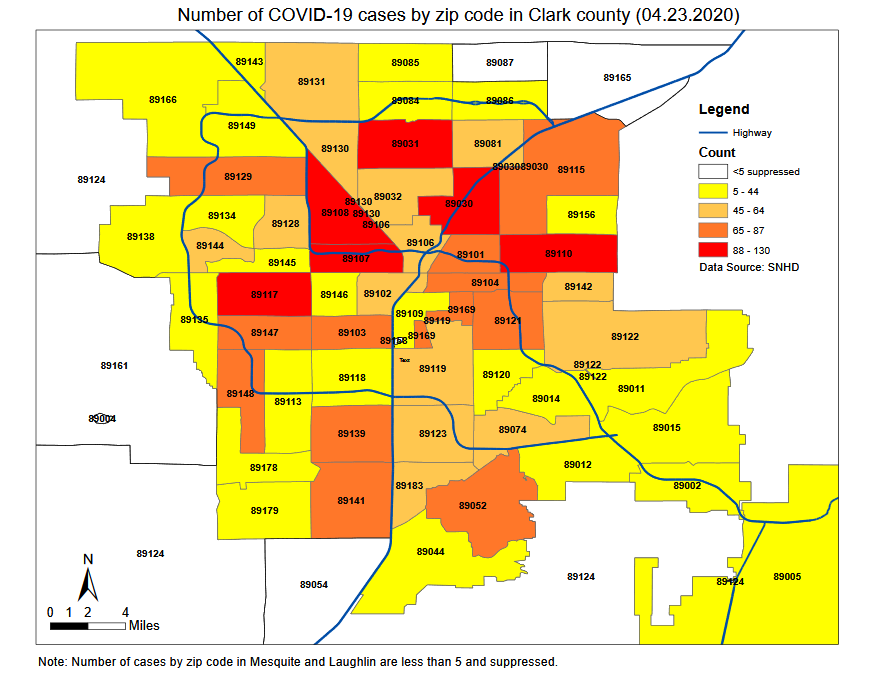
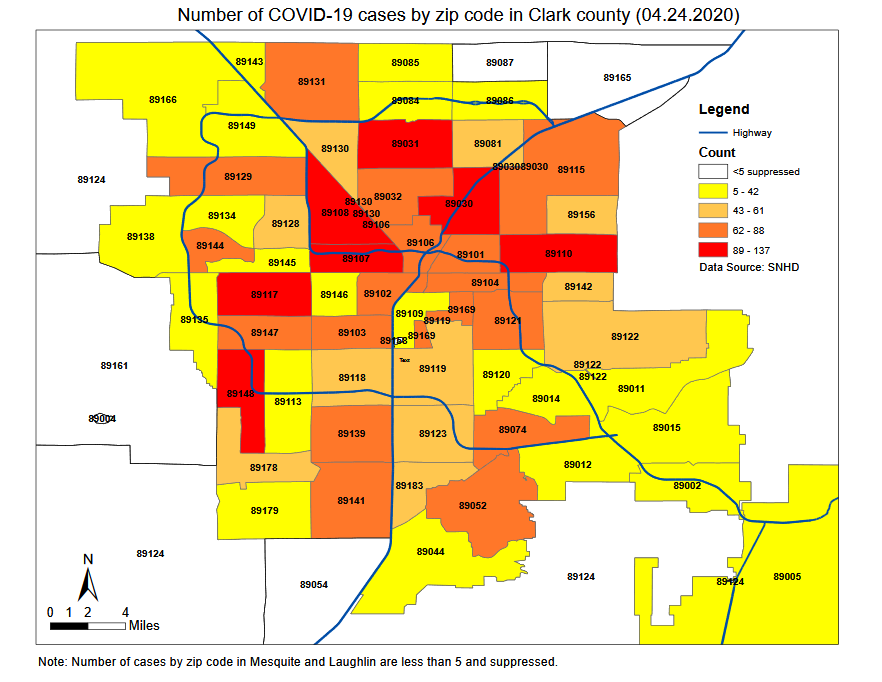
push

diff --git a/src/pages/nevada.js b/src/pages/nevada.js
@@ -65,6 +65,7 @@ class NevadaPage extends Component {
         '04/21/20',
         '04/22/20',
         '04/23/20',
+        '04/24/20',
       ],
       datasets: [
         {
@@ -121,6 +122,7 @@ class NevadaPage extends Component {
             4081,
             4208,
             4398,
+            4539,
           ],
           fill: false, // Don't fill area under the line
           backgroundColor: '#933A16', // Line color
@@ -180,6 +182,7 @@ class NevadaPage extends Component {
         '04/21/20',
         '04/22/20',
         '04/23/20',
+        '04/24/20',
       ],
       datasets: [
         {
@@ -236,6 +239,7 @@ class NevadaPage extends Component {
             172,
             187,
             195,
+            202,
           ],
           backgroundColor: 'maroon',
         },
@@ -275,6 +279,7 @@ class NevadaPage extends Component {
         '04/21/20',
         '04/22/20',
         '04/23/20',
+        '04/24/20',
       ],
       datasets: [
         {
@@ -312,6 +317,7 @@ class NevadaPage extends Component {
             826,
             860,
             881,
+            907,
           ],
         },
         {
@@ -349,6 +355,7 @@ class NevadaPage extends Component {
             21,
             34,
             21,
+            26,
           ],
         },
       ],
@@ -407,6 +414,7 @@ class NevadaPage extends Component {
         '04/21/20',
         '04/22/20',
         '04/23/20',
+        '04/24/20',
       ],
       datasets: [
         {
@@ -463,6 +471,7 @@ class NevadaPage extends Component {
             150,
             163,
             168,
+            174,
           ],
           backgroundColor: 'maroon',
         },
@@ -474,7 +483,7 @@ class NevadaPage extends Component {
       datasets: [
         {
           label: 'Age of Cases',
-          data: [12, 62, 187, 1374, 986, 819],
+          data: [14, 70, 204, 1422, 1012, 845],
           backgroundColor: [
             'rgb(54, 162, 235)', //blue
             'rgb(255, 99, 132)', //salmon
@@ -492,7 +501,7 @@ class NevadaPage extends Component {
       datasets: [
         {
           label: 'Sex',
-          data: [1713, 1620, 110],
+          data: [1784, 1677, 109],
           backgroundColor: [
             'rgb(54, 162, 235)',
             'rgb(255, 99, 132)',
@@ -546,7 +555,7 @@ class NevadaPage extends Component {
                   </div>
                   <div className="card-value pt-4">
                     <p className="is-dark-text-light">Total</p>
-                    <h1>36192</h1>
+                    <h1>37208</h1>
                   </div>
                 </div>
                 <div className="card grid-card is-card-dark">
@@ -557,7 +566,7 @@ class NevadaPage extends Component {
                   </div>
                   <div className="card-value pt-4">
                     <p className="is-dark-text-light">Total</p>
-                    <h1>31794</h1>
+                    <h1>32669</h1>
                   </div>
                 </div>
               </div>
@@ -585,7 +594,7 @@ class NevadaPage extends Component {
                   </div>
                   <div className="card-value pt-4">
                     <p className="is-dark-text-light">Total</p>
-                    <h1>4398</h1>
+                    <h1>4539</h1>
                   </div>
                 </div>
                 <div className="card grid-card is-card-dark">
@@ -596,7 +605,7 @@ class NevadaPage extends Component {
                   </div>
                   <div className="card-value pt-4">
                     <p className="is-dark-text-light">Total</p>
-                    <h1>195</h1>
+                    <h1>202</h1>
                   </div>
                 </div>
               </div>
@@ -625,7 +634,7 @@ class NevadaPage extends Component {
                     </div>
                     <div className="card-value pt-4">
                       <p className="is-dark-text-light">Total</p>
-                      <h1>3443</h1>
+                      <h1>3570</h1>
                     </div>
                   </div>
                   <div className="card grid-card is-card-dark">
@@ -636,7 +645,7 @@ class NevadaPage extends Component {
                     </div>
                     <div className="card-value pt-4">
                       <p className="is-dark-text-light">Total</p>
-                      <h1>881</h1>
+                      <h1>907</h1>
                     </div>
                   </div>
                 </div>
@@ -663,7 +672,7 @@ class NevadaPage extends Component {
                     </div>
                     <div className="card-value pt-4">
                       <p className="is-dark-text-light">Total</p>
-                      <h1>168</h1>
+                      <h1>174</h1>
                     </div>
                   </div>
                   <div className="card grid-card is-card-dark">
@@ -674,7 +683,7 @@ class NevadaPage extends Component {
                     </div>
                     <div className="card-value pt-4">
                       <p className="is-dark-text-light">Total</p>
-                      <h1>153</h1>
+                      <h1>159</h1>
                     </div>
                   </div>
                 </div>
